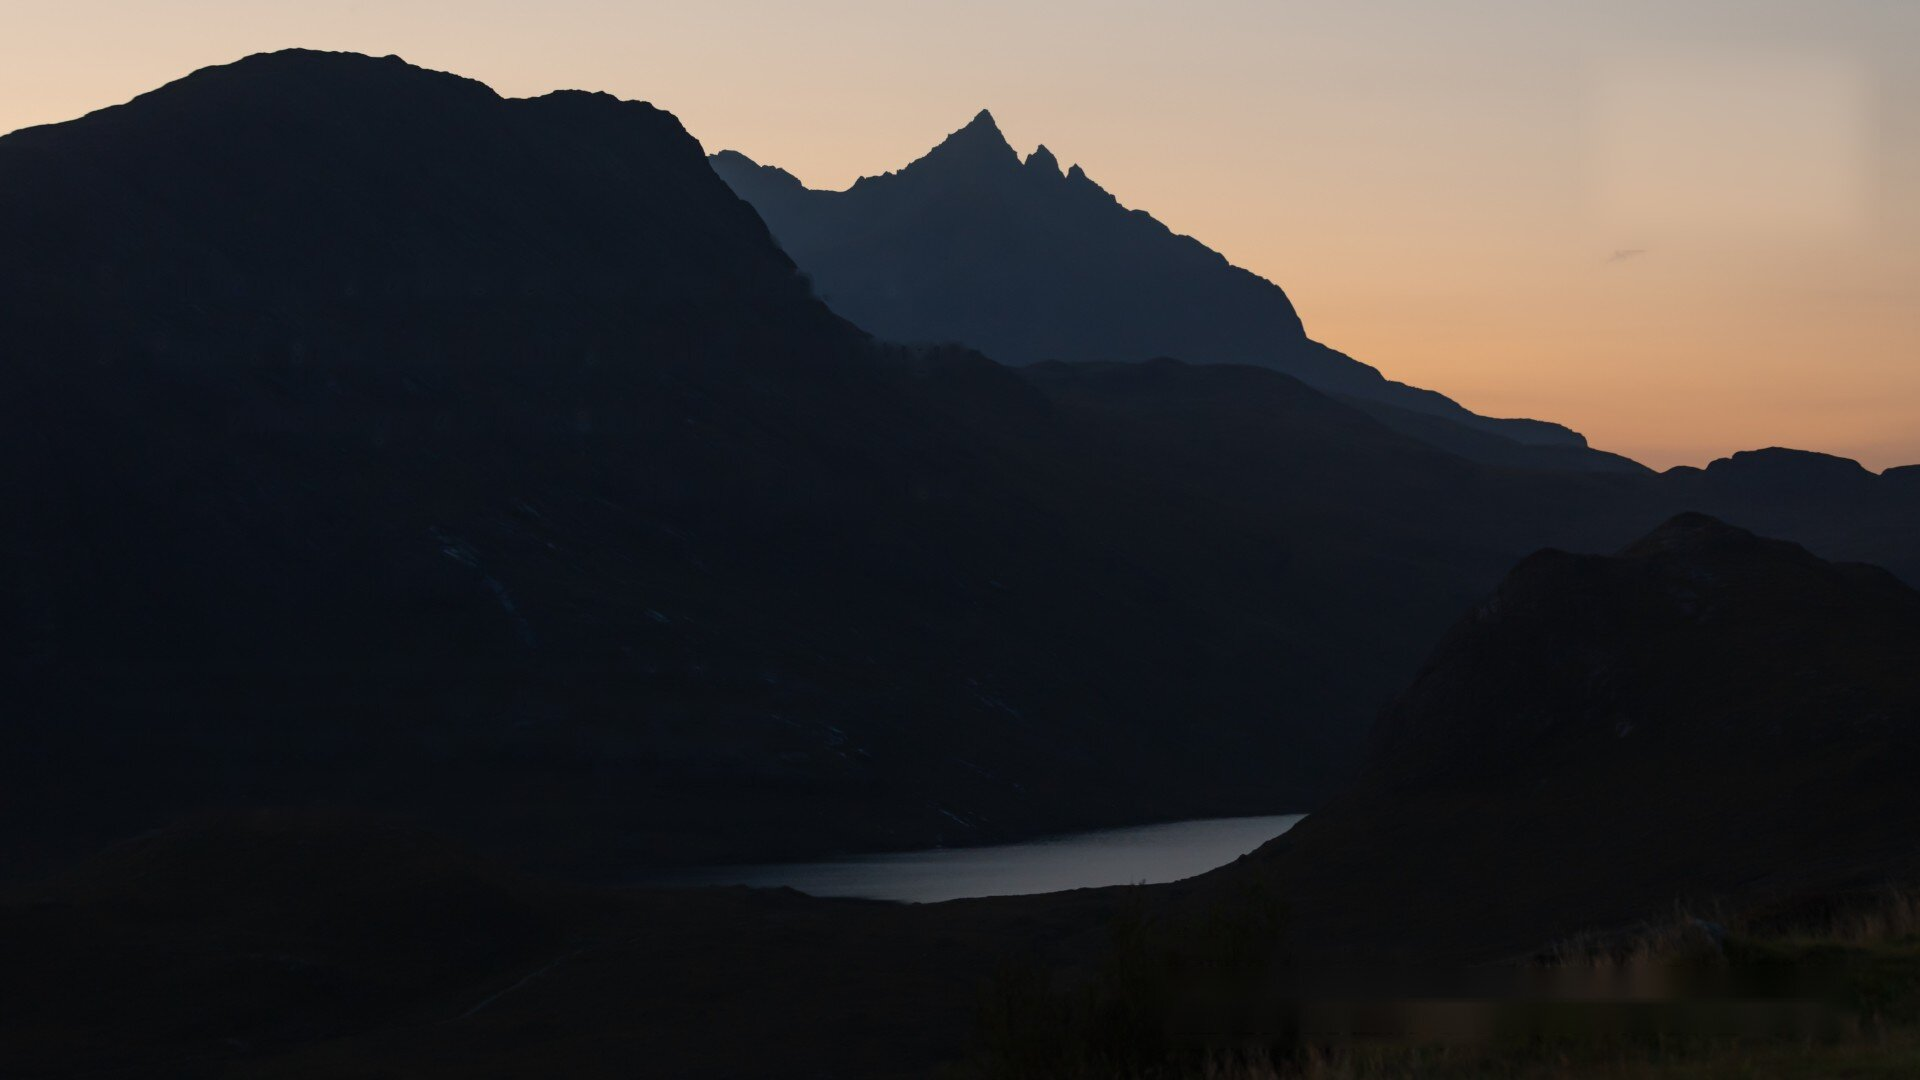
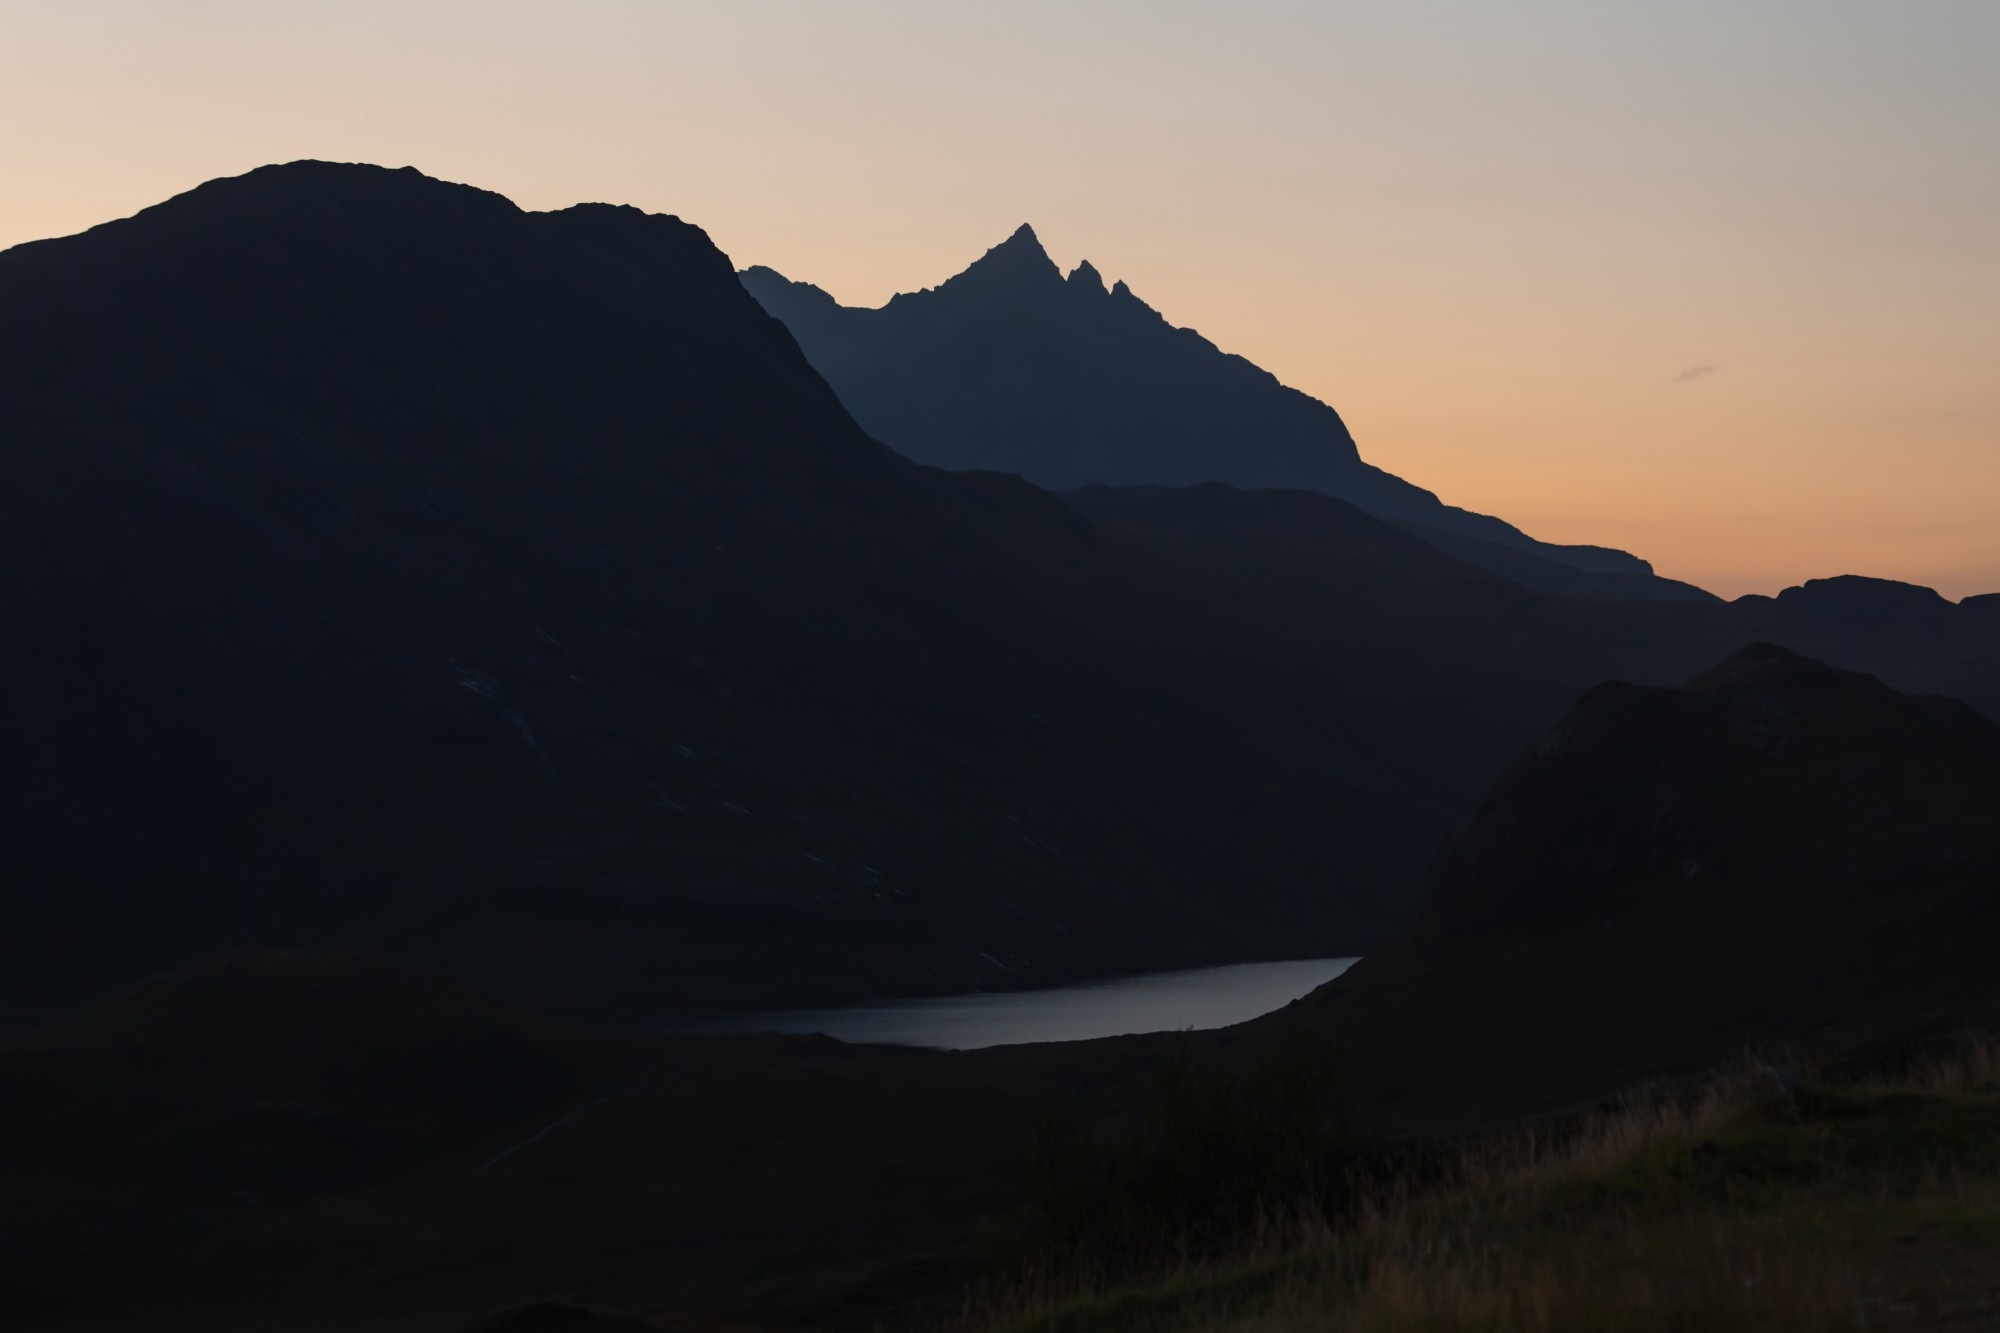
Add real story photos, Elgol hero lift and signature
- Story photos in assets/images/stories, with smaller tile copies
  (scripts/tiles.sh) and an optional image.position focal point
- image.lift option raises a story's photo so a low subject isn't
  hidden by the fade and heading (used for Elgol's kayaker)
- Clean home hero photo; welcome email collage uses the new photos
- Handwritten signature replaces the italic "Mat" on the site and
  in both email templates
- Remove the stand-in images

diff --git a/email/welcome.html b/email/welcome.html
@@ -79,7 +79,7 @@
                     <p>Slow Scotland is a 12-week series that shares these places with you. Each week I’ll send a photograph and a short story from one of my trips, along with a few practical notes if you want to visit yourself. Sometimes that will mean a good walk, sometimes a beach or viewpoint, and sometimes a suggestion for food or somewhere to stay nearby.</p>
                     <p>The idea is simple: spend less time following the crowd and more time enjoying Scotland at its best.</p>
                     <p>Your first email will be with you shortly.</p>
-                    <p style="margin-bottom:0;">Mat</p>
+                    <p style="margin-bottom:0;"><img src="https://slowscotland.uk/assets/email/signature-dark.png" width="120" height="51" alt="Mat" style="width:120px; height:auto;"></p>
                   </td>
                 </tr>
               </table>
@@ -92,13 +92,13 @@
               <table role="presentation" width="100%" cellpadding="0" cellspacing="0" border="0">
                 <tr>
                   <td class="col-left" valign="top" width="200" style="width:200px;">
-                    <img class="fluid" mc:edit="photo_1" src="https://slowscotland.uk/assets/images/fire.jpg" width="200" height="200" alt="" style="width:200px; height:200px; object-fit:cover;">
+                    <img class="fluid" mc:edit="photo_1" src="https://slowscotland.uk/assets/email/collage-1.jpg" width="200" height="200" alt="" style="width:200px; height:200px; object-fit:cover;">
                     <div style="height:44px; line-height:44px; font-size:0;">&nbsp;</div>
-                    <img class="fluid" mc:edit="photo_2" src="https://slowscotland.uk/assets/images/loch.jpg" width="200" height="133" alt="" style="width:200px; height:133px; object-fit:cover;">
+                    <img class="fluid" mc:edit="photo_2" src="https://slowscotland.uk/assets/email/collage-2.jpg" width="200" height="133" alt="" style="width:200px; height:133px; object-fit:cover;">
                   </td>
                   <td class="col-gap" width="43" style="width:43px; font-size:0; line-height:0;">&nbsp;</td>
                   <td class="col-right" valign="top" width="357" style="width:357px; padding-top:97px;">
-                    <img class="fluid" mc:edit="photo_3" src="https://slowscotland.uk/assets/images/sunset.jpg" width="357" height="238" alt="" style="width:357px; height:238px; object-fit:cover;">
+                    <img class="fluid" mc:edit="photo_3" src="https://slowscotland.uk/assets/email/collage-3.jpg" width="357" height="238" alt="" style="width:357px; height:238px; object-fit:cover;">
                   </td>
                 </tr>
               </table>

diff --git a/_layouts/story.html b/_layouts/story.html
@@ -2,8 +2,8 @@
 layout: default
 ---
 <article class="story">
-  <header class="story-hero">
-    <img class="story-hero__img" src="/assets/images/{{ page.image.src }}" alt="{{ page.image.alt }}" fetchpriority="high">
+  <header class="story-hero{% if page.image.lift %} story-hero--lifted{% endif %}"{% if page.image.lift %} style="--lift: {{ page.image.lift }}"{% endif %}>
+    <img class="story-hero__img" src="/assets/images/stories/{{ page.image.src }}" srcset="/assets/images/stories/tiles/{{ page.image.src }} 800w, /assets/images/stories/{{ page.image.src }} 2000w" sizes="100vw" alt="{{ page.image.alt }}" fetchpriority="high"{% if page.image.position %} style="object-position: {{ page.image.position }}"{% endif %}>
     <div class="offset">
       <div class="offset__aside"></div>
       <div class="offset__main">
@@ -18,7 +18,7 @@ layout: default
       <div class="prose">
         {{ content }}
       </div>
-      {% if page.signoff %}<p class="signoff">{{ page.signoff }}</p>{% endif %}
+      {% include signoff.html name=page.signoff %}
     </div>
   </div>
 

diff --git a/_includes/tile.html b/_includes/tile.html
@@ -5,7 +5,7 @@
 {% assign story = include.story %}
 {% if story.collection == "stories" %}
 <a class="tile tile--open" href="{{ story.url }}">
-  <img class="tile__img" src="/assets/images/{{ story.image.src }}" alt="" loading="lazy">
+  <img class="tile__img" src="/assets/images/stories/tiles/{{ story.image.src }}" alt="" loading="lazy"{% if story.image.position %} style="object-position: {{ story.image.position }}"{% endif %}>
   <span class="tile__body">
     <span class="tile__area">{{ story.area }}</span>
     <span class="tile__title">{{ story.title }}</span>
@@ -14,7 +14,7 @@
 </a>
 {% else %}
 <a class="tile tile--locked" href="#signup">
-  <img class="tile__img" src="/assets/images/{{ story.image.src }}" alt="" loading="lazy">
+  <img class="tile__img" src="/assets/images/stories/tiles/{{ story.image.src }}" alt="" loading="lazy"{% if story.image.position %} style="object-position: {{ story.image.position }}"{% endif %}>
   <span class="tile__body">
     <span class="tile__area">{{ story.area }}</span>
     <span class="tile__title">{{ story.title }}</span>

diff --git a/_postcss/_story.css b/_postcss/_story.css
@@ -26,6 +26,33 @@
   background: linear-gradient(to bottom, rgba(13, 10, 6, .15) 0%, rgba(13, 10, 6, 0) 35%, rgba(13, 10, 6, .55) 65%, var(--ground) 100%);
 }
 
+/*
+  Lifted hero (image.lift in front matter): for photos whose subject sits low.
+  The photo ends above the hero's bottom with a short fade, and the heading
+  sits on the dark ground beneath it rather than over the photo.
+*/
+.story-hero--lifted {
+  background: var(--ground);
+}
+
+.story-hero--lifted {
+  overflow: hidden;
+}
+
+.story-hero--lifted .story-hero__img,
+.story-hero--lifted::after {
+  inset: 0 0 auto 0;
+  height: calc(100% - var(--lift) + 2px);
+}
+
+.story-hero--lifted .story-hero__img {
+  height: calc(100% - var(--lift));
+}
+
+.story-hero--lifted::after {
+  background: linear-gradient(to bottom, rgba(13, 10, 6, .15) 0%, rgba(13, 10, 6, 0) 25%, rgba(13, 10, 6, 0) 70%, rgba(13, 10, 6, .2) 78%, rgba(13, 10, 6, .55) 88%, var(--ground) 100%);
+}
+
 .story-hero .h1 {
   font-size: clamp(36px, 6.1vw, 88px);
   line-height: 1.02;

diff --git a/_layouts/default.html b/_layouts/default.html
@@ -18,7 +18,7 @@
     <link rel="apple-touch-icon" href="/assets/images/apple-touch-icon.png">
     <link rel="stylesheet" href="/assets/css/styles.css?v={{ site.time | date: "%s" }}">
 
-    {% assign share_image = page.hero.image | default: page.image.src | default: "home-hero.jpg" %}
+    {% if page.collection == "stories" %}{% assign share_image = page.image.src | prepend: "stories/" %}{% else %}{% assign share_image = page.hero.image | default: page.image.src | default: "home-hero.jpg" %}{% endif %}
     <meta property="og:locale" content="en_GB">
     <meta property="og:site_name" content="{{ site.title }}">
     <meta property="og:type" content="website">

diff --git a/email/story.html b/email/story.html
@@ -157,8 +157,8 @@
                   </td>
                 </tr>
                 <tr>
-                  <td class="offset signoff" mc:edit="signoff" style="padding:16px 45px 64px 222px; font-family:'Sentient', Georgia, 'Times New Roman', serif; font-style:italic; font-weight:300; font-size:26px; line-height:1.2; color:#EAE2DC;">
-                    Mat
+                  <td class="offset" style="padding:16px 45px 64px 222px;">
+                    <img src="https://slowscotland.uk/assets/email/signature-light.png" width="120" height="51" alt="Mat" style="width:120px; height:auto;">
                   </td>
                 </tr>
               </table>

diff --git a/_layouts/about.html b/_layouts/about.html
@@ -19,7 +19,7 @@ layout: default
       <div class="prose">
         {{ content }}
       </div>
-      {% if page.signoff %}<p class="signoff">{{ page.signoff }}</p>{% endif %}
+      {% include signoff.html name=page.signoff %}
       {% if page.button %}<a class="button" href="{{ page.button.url }}">{{ page.button.text }}</a>{% endif %}
     </div>
   </div>

diff --git a/_postcss/_base.css b/_postcss/_base.css
@@ -112,12 +112,12 @@ a { color: inherit; }
 }
 
 .signoff {
-  font-family: var(--serif);
-  font-style: italic;
-  font-weight: 300;
-  font-size: 1.6em;
-  line-height: 1.2;
-  margin-top: 1.4em;
+  margin-top: 2em;
+}
+
+.signoff img {
+  width: 110px;
+  height: auto;
 }
 
 .prose p {

diff --git a/_includes/signoff.html b/_includes/signoff.html
@@ -1,0 +1,2 @@
+{% comment %} Handwritten signature. The page's signoff text is used as the alt text. {% endcomment %}
+{% if include.name %}<p class="signoff"><img src="/assets/images/signature-light.png" alt="{{ include.name }}" width="600" height="253"></p>{% endif %}

diff --git a/README.md b/README.md
@@ -50,7 +50,9 @@ Teasers in `_teasers` only need `title`, `area`, `order` and `image`. They show 
 
 ### Images
 
-Images go in `assets/images` and are referenced by filename in front matter. Locked tiles blur their image with CSS.
+Story photos go in `assets/images/stories` and are referenced by filename in front matter (`image.src`). Add `image.position` (e.g. `"50% 70%"`) to choose which part of the photo crops keep. If a story's subject sits low in the photo and gets hidden by the fade and heading, add `image.lift` (e.g. `"22%"`) to raise the photo so the heading sits below it (see `_stories/elgol.md`).
+
+After adding or replacing a story photo, run `./scripts/tiles.sh` to make the smaller copies the tiles and phones use (needs ImageMagick). Locked tiles blur their image with CSS.
 
 ### Signup
 

diff --git a/_stories/elgol.md b/_stories/elgol.md
@@ -4,9 +4,12 @@ title: "Elgol, the Kayaker at Dusk"
 heading: "Elgol, the Kayaker --- *at Dusk*"
 area: "Isle of Skye"
 order: 2
+# lift raises the photo so the kayaker isn't hidden behind the fade and heading.
 image:
-  src: cuillin.jpg
-  alt: "The Cuillin ridge in silhouette against a dusk sky"
+  src: elgol.jpg
+  position: "88% 75%"
+  lift: "22%"
+  alt: "A kayaker in a yellow boat on still water below the blue ridges of the Cuillin at dusk"
 description: "When someone called Merlin tells you to try Elgol for sunset, you go for it."
 signup_text: "This is one of two stories shared here. The other twelve arrive by email, one a week, with a few practical notes if you want to visit yourself."
 

diff --git a/_stories/plockton.md b/_stories/plockton.md
@@ -7,8 +7,9 @@ heading:
   - "--- *Tidal Cove*"
 area: "Loch Carron"
 order: 1
+# Photo in assets/images/stories. position (optional) sets the focal point for crops, e.g. "50% 60%".
 image:
-  src: fire.jpg
+  src: plockton.jpg
   alt: "Friends around a fire on a rocky spit at dusk, with Loch Carron and the hills beyond"
 description: "An evening by the fire in a tidal cove just outside Plockton."
 signup_text: "This is one of two stories shared here. The other twelve arrive by email, one a week, with a few practical notes if you want to visit yourself."
